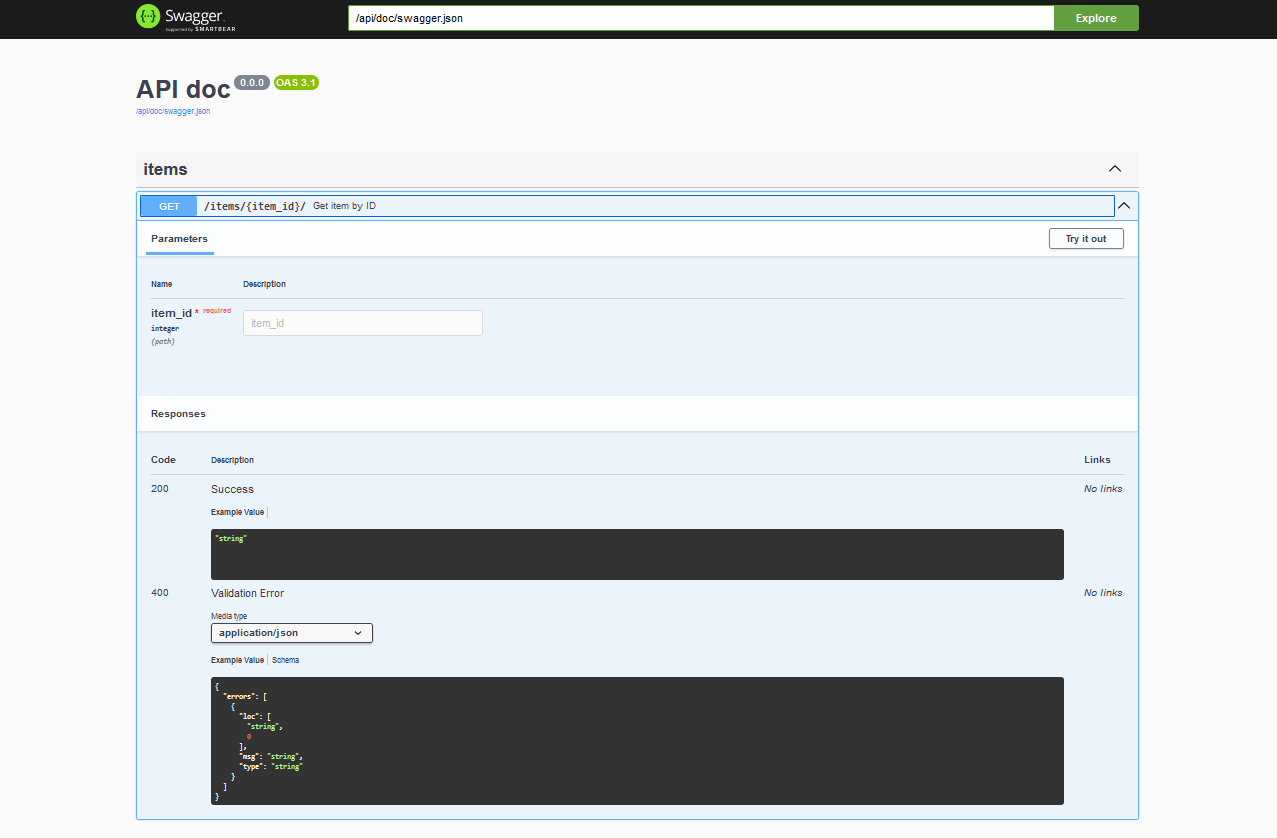
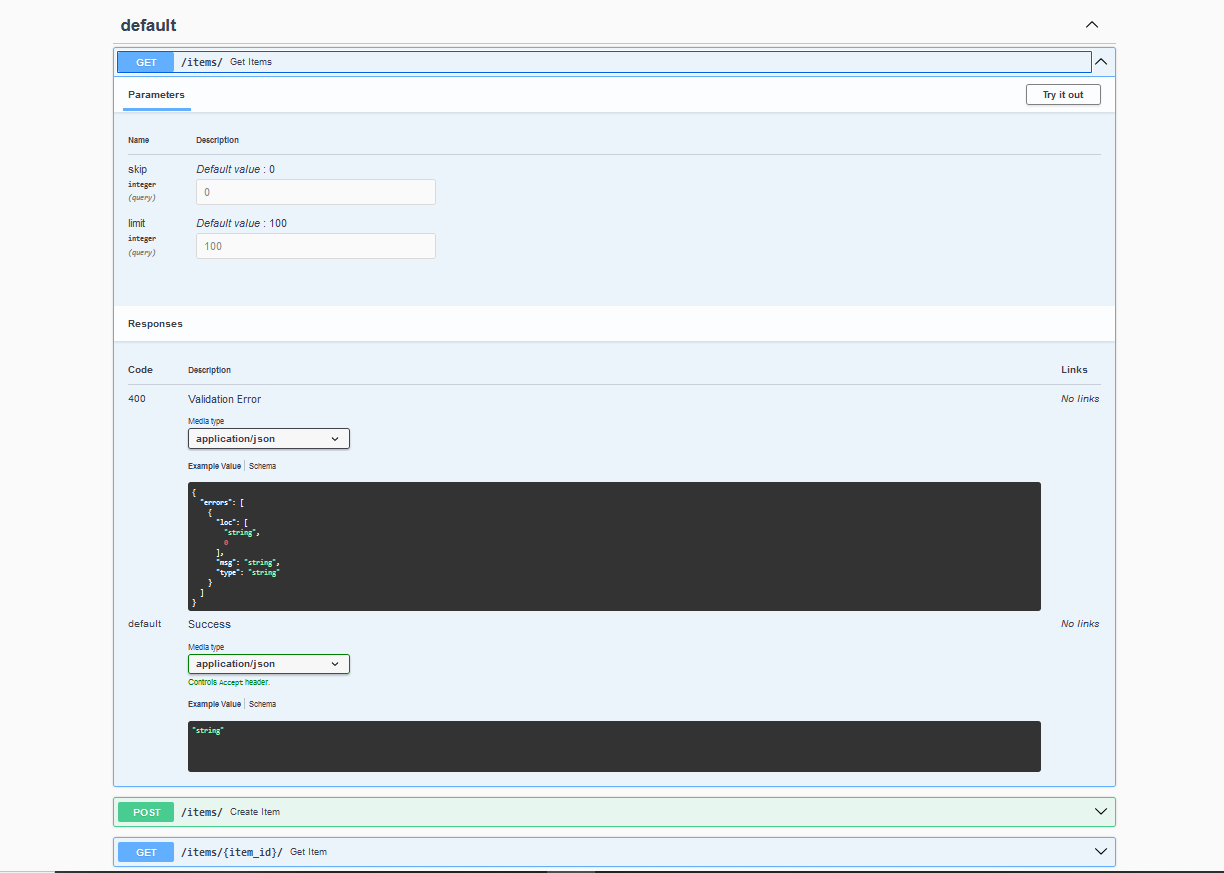
deploy: c102a0a53f2467902c5f788c04c1799a54a63b72

diff --git a/openapi/index.html b/openapi/index.html
@@ -94,15 +94,17 @@
             <div class="section" itemprop="articleBody">
               
                 <h1 id="openapi">OpenApi</h1>
-<p>This library automatically generates an OpenApi schema based on the type annotations defined in the application's
-endpoints. This schema can be used both to document the API and to validate incoming requests with any library
-compatible with OpenApi.</p>
+<p>This library automatically generates an OpenAPI schema based on the type annotations defined in the application's
+endpoints.</p>
 <p>In the examples, we will use the <code>swagger-ui-py</code> library to visualize the documentation generated by
 <code>flask_typed_routes</code>.</p>
-<p>The schema is fully customizable to meet the specific needs of the application.</p>
-<p>Additionally, the library provides the <code>typed_route</code> decorator, which allows parameterizing the various fields
-supported by OpenApi to describe an operation. More details on its usage can be found in the corresponding sections of
-this documentation.</p>
+<p>The generated schema is fully customizable to meet the specific needs of your application.</p>
+<p>Additionally, the library offers the <code>typed_route</code> decorator, which enables fine-grained control over the various fields
+supported by OpenAPI to describe an operation. Detailed instructions on its usage can be found in the relevant sections
+of this documentation.
+Furthermore, the <code>FlaskTypedRoutes</code> class accepts keyword arguments (kwargs) corresponding to different OpenAPI
+configuration fields. These can be used to fully customize the application's schema and tailor it to specific
+requirements.</p>
 <div class="admonition note">
 <p class="admonition-title">Note</p>
 <p>Can be accessed through the <code>openapi_schema</code> attribute of the <code>FlaskTypedRoutes</code> instance.</p>
@@ -110,13 +112,11 @@ this documentation.</p>
 <h2 id="basic-usage">Basic Usage</h2>
 <div class="admonition tip">
 <p class="admonition-title">Tip</p>
-<p>Ensure that the <code>swagger-ui-py</code> library is installed to visualize the OpenApi schema.</p>
 </div>
+<p>Ensure that the <code>swagger-ui-py</code> library is installed to visualize the OpenApi schema.</p>
 <pre><code class="language-bash">pip install swagger-ui-py  # ignore if already installed
 </code></pre>
-<pre><code class="language-python">import typing as t
-
-import flask.views
+<pre><code class="language-python">import flask.views
 import pydantic
 import swagger_ui
 
@@ -124,7 +124,7 @@ import flask_typed_routes as ftr
 
 app = flask.Flask(__name__)
 app_ftr = ftr.FlaskTypedRoutes(app)
-swagger_ui.api_doc(app, config=app_ftr.openapi_schema, url_prefix='/api/doc', title='API doc')
+swagger_ui.api_doc(app, config=app_ftr.openapi_schema, url_prefix='/api/doc')
 
 
 class Item(pydantic.BaseModel):
@@ -134,20 +134,9 @@ class Item(pydantic.BaseModel):
     tax: float = None
 
 
-class Params(pydantic.BaseModel):
-    skip: int = 0
-    limit: int = pydantic.Field(le=100, default=10)
-    status: str = pydantic.Field(description='status of the item', deprecated=True, default='active')
-
-
 @app.get('/items/')
-def get_items(params: t.Annotated[Params, ftr.Query()]):
-    return flask.jsonify(params.model_dump())
-
-
-@app.post('/items/')
-def create_item(item: Item):
-    return flask.jsonify(item.model_dump())
+def get_items(skip: int = 0, limit: int = 100):
+    return flask.jsonify({'skip': skip, 'limit': limit})
 
 
 @app.get('/items/&lt;item_id&gt;/')
@@ -155,14 +144,14 @@ def get_item(item_id: int):
     return flask.jsonify({'item_id': item_id})
 
 
+@app.post('/items/')
+def create_item(item: Item):
+    return flask.jsonify(item.model_dump())
+
+
 @app.put('/items/&lt;item_id&gt;/')
 def update_item(item_id: int, item: Item):
     return flask.jsonify({'item_id': item_id, **item.model_dump()})
-
-
-@app.delete('/items/&lt;item_id&gt;/')
-def remove_item(item_id: int):
-    return flask.jsonify({'item_id': item_id})
 </code></pre>
 <p>In this example if you run the application and navigate to <code>http://127.0.0.1:5000/api/doc</code>, you will see the
 documentation generated by the <code>swagger-ui-py</code> library using the OpenApi schema generated by <code>flask_typed_routes</code>.</p>

diff --git a/index.html b/index.html
@@ -102,7 +102,7 @@ standard Python type hints.</p>
 <li>⚠ <strong>Error Handling:</strong> Clear and automatic responses for validation failures.</li>
 <li>✨ <strong>Autocomplete:</strong> Editor integration with comprehensive suggestions.</li>
 <li>⚙ <strong>Validation Modes:</strong> Supports automatic validation for all routes and manual validation for specific routes using decorators.</li>
-<li>📖 <strong>OpenAPI Support:</strong> Automatically generates a comprehensive OpenAPI schema, ensuring clear documentation and seamless integration with API tools.</li>
+<li>📖 <strong>OpenAPI Support:</strong> Automatically generates an OpenAPI schema, ensuring clear documentation and seamless integration with OpenAPI tools.</li>
 </ul>
 <h2 id="requirements">Requirements</h2>
 <ul>
@@ -244,6 +244,42 @@ class UserOrders(flask.views.MethodView):
 app.add_url_rule('/products/&lt;user&gt;/all/', view_func=UserProducts.as_view('user_products'))
 app.add_url_rule('/orders/&lt;user&gt;/all/', view_func=UserOrders.as_view('user_orders'))
 </code></pre>
+<h3 id="interactive-api-docs">Interactive API docs</h3>
+<p>You can OpenApi schema generated by <code>flask_typed_routes</code> with any OpenApi tools to
+generate interactive API docs for your Flask application. In this example we will use the <code>swagger-ui-py</code> library.</p>
+<pre><code class="language-bash">pip install swagger-ui-py  # ignore if already installed
+</code></pre>
+<pre><code class="language-python">import typing
+
+import flask
+import pydantic
+import swagger_ui
+import flask_typed_routes as ftr
+
+app = flask.Flask(__name__)
+app_ftr = ftr.FlaskTypedRoutes(app, title=&quot;Items API&quot;, openapi_version='3.1.1')
+swagger_ui.api_doc(app, config=app_ftr.openapi_schema, url_prefix='/api/doc')
+
+
+class Item(pydantic.BaseModel):
+    name: str
+    price: float
+    status: typing.Literal['reserved', 'available']
+
+
+@app.get(&quot;/items/{user_id}/&quot;)
+def read_items(user_id: int, status: typing.Literal['reserved', 'available'] = 'available'):
+    result = {&quot;user_id&quot;: user_id, &quot;status&quot;: status}
+    return flask.jsonify(result)
+
+
+@app.put(&quot;/items/{item_id}&quot;)
+def update_item(item_id: int, item: Item):
+    result = {&quot;item_id&quot;: item_id, &quot;item_name&quot;: item.name, &quot;item_price&quot;: item.price}
+    return flask.jsonify(result)
+</code></pre>
+<p>Open your browser and go to <code>http://127.0.0.1:5000/api/doc/</code></p>
+<p><img alt="OpenApi Example" src="openapi_example0.png" /></p>
               
             </div>
           </div><footer>
@@ -296,5 +332,5 @@ app.add_url_rule('/orders/&lt;user&gt;/all/', view_func=UserOrders.as_view('user
 
 <!--
 MkDocs version : 1.6.1
-Build Date UTC : 2025-01-07 20:37:07.411253+00:00
+Build Date UTC : 2025-01-08 09:34:30.198141+00:00
 -->
